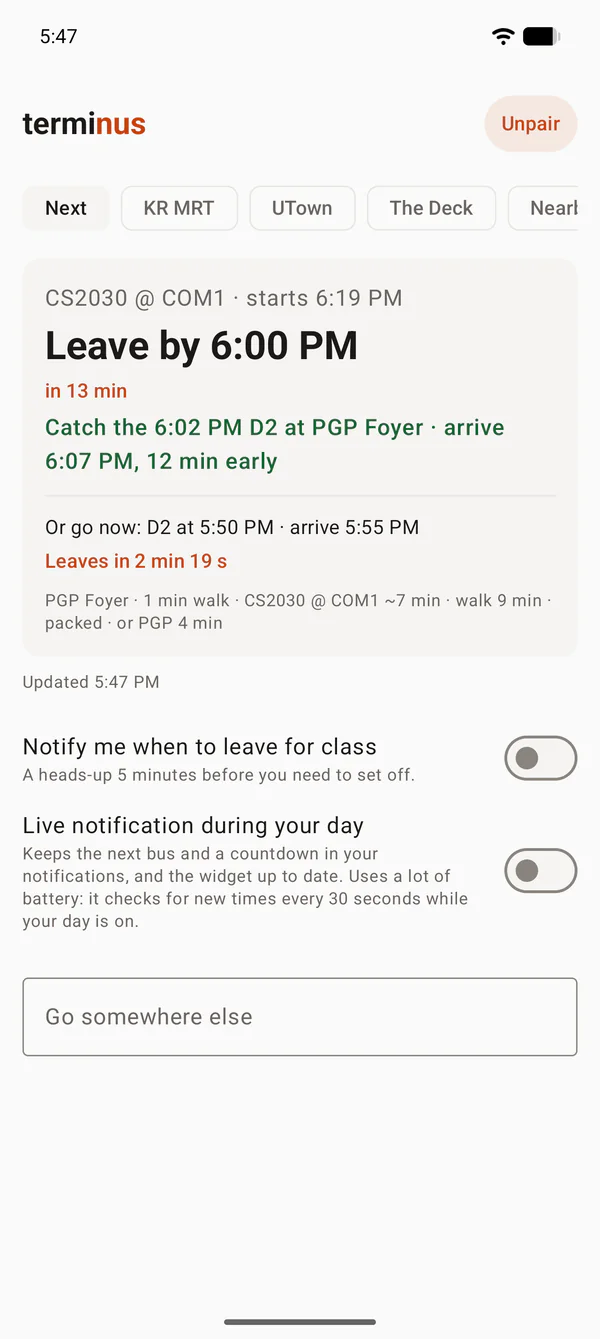
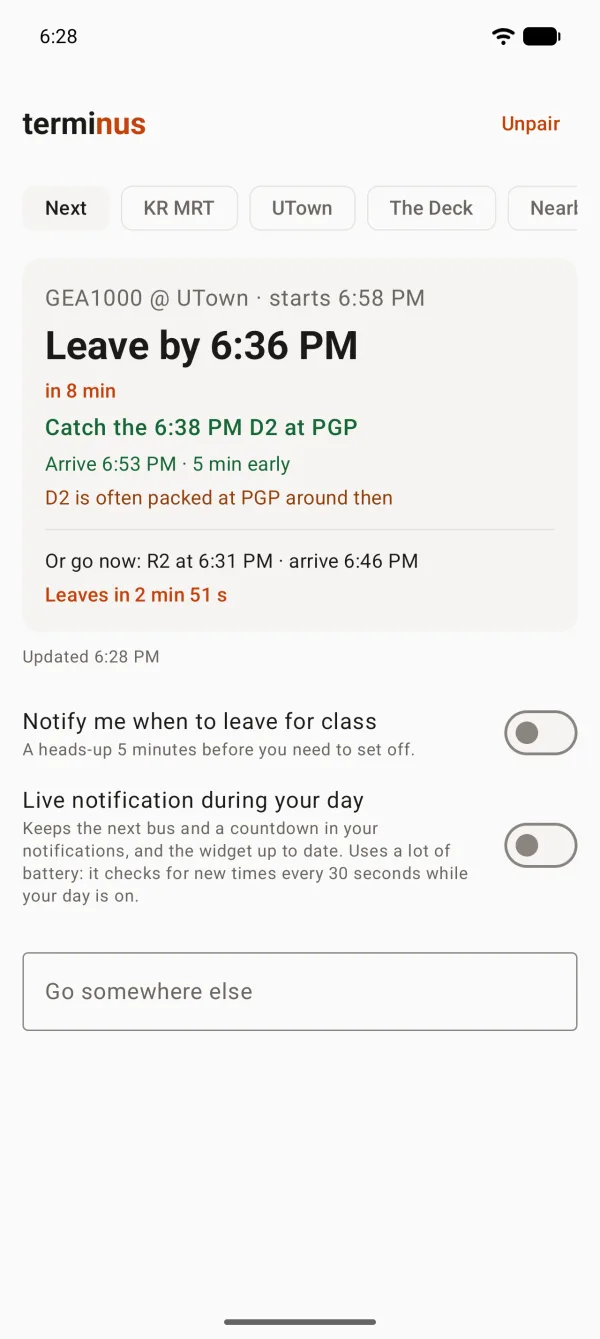
feat: the class card's bus and arrival on separate lines
Class card: the bus to catch and its arrival on separate lines, with a
bus icon on the catch line; no leftover 'Board at' row or general detail
line, which repeated the stop and named a different bus (Mac, Android
app, account page preview); the Mac card fills its fixed height instead
of leaving a gap. Landing page screenshots re-captured to match

diff --git a/apps/web/public/index.html b/apps/web/public/index.html
@@ -155,7 +155,7 @@
     <div class="hero-shot">
       <div class="phone">
         <div class="split" data-split>
-          <img class="half light" src="/assets/shots/app-light.webp" width="600" height="1339" alt="The terminus Android app: CS2030 at COM1 starts 6:19 PM. Leave by 6:00 PM, in 14 minutes, and catch the 6:02 PM D2 at PGP Foyer to arrive 12 minutes early. Or go now on the 5:50 PM D2." fetchpriority="high">
+          <img class="half light" src="/assets/shots/app-light.webp" width="600" height="1339" alt="The terminus Android app: GEA1000 at UTown starts 6:58 PM. Leave by 6:36 PM, in 8 minutes, and catch the 6:38 PM D2 at PGP to arrive at 6:53 PM, 5 minutes early; D2 is often packed at PGP around then. Or go now on the 6:31 PM R2." fetchpriority="high">
           <img class="half dark" src="/assets/shots/app-dark.webp" width="600" height="1339" alt="" aria-hidden="true">
         </div>
       </div>
@@ -171,7 +171,7 @@
         <div class="window-bar" aria-hidden="true"><i></i><i></i><i></i><span>terminus.rcn.sh/account</span></div>
         <picture class="shot">
           <source srcset="/assets/shots/web-dark.webp" media="(prefers-color-scheme: dark)">
-          <img src="/assets/shots/web-light.webp" width="1600" height="975" loading="lazy" alt="The account page: a timetable of three classes, where you live, and a live preview of your widget saying leave by 6:05 PM and walk there.">
+          <img src="/assets/shots/web-light.webp" width="1600" height="975" loading="lazy" alt="The account page: a timetable of three classes, and a live preview of your widget saying leave by 6:33 PM and catch the 6:38 PM D2 at PGP Foyer, arriving 13 minutes early.">
         </picture>
       </div>
       <figcaption><h3>Set up on the web</h3><p>Import your NUSMods timetable, pick where you live and how fast you walk, and see exactly what your widget will say.</p></figcaption>
@@ -187,11 +187,11 @@
       <div class="desk themed">
         <div class="light scene l">
           <div class="menu" aria-hidden="true"><b><svg width="12" height="12" viewBox="0 0 24 24" fill="currentColor"><path d="M6 3h12a3 3 0 0 1 3 3v10a2 2 0 0 1-1 1.73V20a1 1 0 0 1-1 1h-1a1 1 0 0 1-1-1v-1H7v1a1 1 0 0 1-1 1H5a1 1 0 0 1-1-1v-2.27A2 2 0 0 1 3 16V6a3 3 0 0 1 3-3zM5 7v4h14V7H5z"/></svg>Leave 9:41</b><span>Tue 29 Sep 9:24</span></div>
-          <img class="pop" src="/assets/shots/mac-light.webp" width="720" height="769" loading="lazy" alt="The Mac menu bar app: leave by 9:41 for CS2030 at 10:00, catch the 9:45 D2 at PGP.">
+          <img class="pop" src="/assets/shots/mac-light.webp" width="720" height="733" loading="lazy" alt="The Mac menu bar app: leave by 9:41 for CS2030 at 10:00, catch the 9:45 D2 at PGP.">
         </div>
         <div class="dark scene d" aria-hidden="true">
           <div class="menu"><b><svg width="12" height="12" viewBox="0 0 24 24" fill="currentColor"><path d="M6 3h12a3 3 0 0 1 3 3v10a2 2 0 0 1-1 1.73V20a1 1 0 0 1-1 1h-1a1 1 0 0 1-1-1v-1H7v1a1 1 0 0 1-1 1H5a1 1 0 0 1-1-1v-2.27A2 2 0 0 1 3 16V6a3 3 0 0 1 3-3zM5 7v4h14V7H5z"/></svg>Leave 9:41</b><span>Tue 29 Sep 9:24</span></div>
-          <img class="pop" src="/assets/shots/mac-dark.webp" width="720" height="769" loading="lazy" alt="">
+          <img class="pop" src="/assets/shots/mac-dark.webp" width="720" height="733" loading="lazy" alt="">
         </div>
       </div>
       <figcaption><h3>In your menu bar</h3><p>When to leave, one glance up. The rest, a click away.</p></figcaption>

diff --git a/apps/macos/Sources/Terminus/TerminusApp.swift b/apps/macos/Sources/Terminus/TerminusApp.swift
@@ -578,13 +578,15 @@ private struct AnswerDetail: View {
             if let a = answer {
                 if a.isClassPlan {
                     // Each arrival next to the bus it belongs to.
-                    if let c = a.catchLine { Row(icon: "figure.walk", text: c).fontWeight(.semibold).foregroundStyle(a.leaveLate ? Color.red : Color.good) }
+                    // The bus to catch (it names the stop), then when it gets you there.
+                    let tone = a.leaveLate ? Color.red : Color.good
+                    if let c = a.catchHow { Row(icon: a.leave?.svc == nil ? "figure.walk" : "bus.fill", text: c).fontWeight(.semibold).foregroundStyle(tone) }
+                    if let arrive = a.catchArrive { Row(icon: "flag.checkered", text: arrive).foregroundStyle(tone) }
                     if let note = a.leave?.note { Row(icon: "person.3.fill", text: note).foregroundStyle(Color.warn) }
                     if a.leave?.estimated == true {
                         Row(icon: "info.circle", text: "Estimated from the usual gap between buses. Live times show nearer the time.").foregroundStyle(.secondary)
                     }
                     if let g = a.goNowLine { Row(icon: "bus", text: g) }
-                    Row(icon: "text.alignleft", text: a.detail).foregroundStyle(.secondary)
                 } else {
                 Row(icon: a.mode == "rest" ? "calendar" : "text.alignleft", text: a.detail)
                 if let leave = a.leaveText() { Row(icon: "figure.walk", text: leave).fontWeight(.semibold) }
@@ -595,7 +597,6 @@ private struct AnswerDetail: View {
                         if let c = crowdWord(a.crowd) { Pill(text: c, color: .secondary) }
                     }
                 }
-                if let name = a.stop?.name, !name.isEmpty { Row(icon: "mappin.circle", text: "Board at \(name)") }
             } else {
                 HStack(spacing: 8) {
                     ProgressView().controlSize(.small)
@@ -603,6 +604,9 @@ private struct AnswerDetail: View {
                 }
             }
         }
+        // Fill the area's fixed height (120 with the card's padding), so a
+        // short answer centres in the card instead of leaving a gap under it.
+        .frame(maxWidth: .infinity, minHeight: 96, alignment: .leading)
         .card()
     }
 

diff --git a/apps/web/public/account/app.js b/apps/web/public/account/app.js
@@ -180,10 +180,10 @@ function classPlan(a) {
   const late = l.arrive && Date.parse(l.arrive) > classAt;
   const head = Date.now() >= Date.parse(l.at) ? 'Leave now' : `Leave by ${t}${clock(l.at)}`;
   const how = l.svc ? `Catch the ${l.board ? `${t}${clock(l.board)} ` : ''}${l.svc} at ${l.stop}` : 'Walk there';
-  let catchLine = how;
+  let arrive = null;
   if (l.arrive) {
     const m = Math.round((classAt - Date.parse(l.arrive)) / 60_000);
-    catchLine += ` · arrive ${t}${clock(l.arrive)}, ${m > 0 ? `${m} min early` : m === 0 ? 'just in time' : `~${-m} min late`}`;
+    arrive = `Arrive ${t}${clock(l.arrive)} · ${m > 0 ? `${m} min early` : m === 0 ? 'just in time' : `~${-m} min late`}`;
   }
   const svc = a.label.split(' · ')[0];
   const timed = a.departsAt && a.quality !== 'unknown' && a.quality !== 'ended';
@@ -194,11 +194,12 @@ function classPlan(a) {
   return [
     el('div', { class: 'where', textContent: `${a.dest.label} · starts ${clock(a.timing.classAt)}` }),
     el('div', { class: `big${late ? ' late' : ''}`, textContent: head }),
-    el('div', { class: `catch${late ? ' late' : ''}`, textContent: catchLine }),
+    // The bus to catch names the stop, so there's no general detail line below.
+    el('div', { class: `catch${late ? ' late' : ''}`, textContent: how }),
+    arrive ? el('div', { class: `arrive${late ? ' late' : ''}`, textContent: arrive }) : null,
     l.note ? el('div', { class: 'crowd-note', textContent: l.note }) : null,
     l.estimated ? el('div', { class: 'note', textContent: 'Estimated from the usual gap between buses. Live times show nearer the time.' }) : null,
     goNow ? el('div', { class: 'go-now', textContent: goNow }) : null,
-    el('div', { class: 'note', textContent: a.detail }),
   ].filter(Boolean);
 }
 

diff --git a/apps/android/app/src/main/java/sh/rcn/terminus/ui/MainActivity.kt b/apps/android/app/src/main/java/sh/rcn/terminus/ui/MainActivity.kt
@@ -454,9 +454,11 @@ private fun ClassPlan(answer: NextAnswer) {
             color = MaterialTheme.colorScheme.primary,
         )
     }
-    answer.catchLine(fmt)?.let {
-        Text(it, style = MaterialTheme.typography.bodyLarge, fontWeight = FontWeight.Medium, color = if (late) MaterialTheme.colorScheme.error else goodColor())
-    }
+    // The bus to catch, and underneath when it gets you there. The stop is
+    // named here, so no separate "board at" or general detail line below.
+    val tone = if (late) MaterialTheme.colorScheme.error else goodColor()
+    answer.catchHow(fmt)?.let { Text(it, style = MaterialTheme.typography.bodyLarge, fontWeight = FontWeight.Medium, color = tone) }
+    answer.catchArrive(fmt)?.let { Text(it, style = MaterialTheme.typography.bodyMedium, color = tone) }
     answer.leaveNote?.let { Text(it, style = MaterialTheme.typography.bodyMedium, color = MaterialTheme.colorScheme.tertiary) }
     if (answer.leaveEstimated) {
         Text("Estimated from the usual gap between buses. Live times show nearer the time.", style = MaterialTheme.typography.bodySmall, color = muted)
@@ -466,8 +468,7 @@ private fun ClassPlan(answer: NextAnswer) {
         Text(it, style = MaterialTheme.typography.bodyMedium)
         Countdown(answer)
     }
-    Text(answer.detail, style = MaterialTheme.typography.bodySmall, color = muted, modifier = Modifier.padding(top = 6.dp))
-    qualityNote(answer.quality)?.let { Text(it, style = MaterialTheme.typography.bodySmall, color = muted) }
+    qualityNote(answer.quality)?.let { Text(it, style = MaterialTheme.typography.bodySmall, color = muted, modifier = Modifier.padding(top = 6.dp)) }
 }
 
 @Composable

diff --git a/apps/macos/Sources/Terminus/Api.swift b/apps/macos/Sources/Terminus/Api.swift
@@ -76,21 +76,21 @@ struct NextAnswer: Decodable {
         return now >= at ? "Leave now" : "Leave by \(tilde)\(campusTime(at))"
     }
 
-    /// "Catch the ~09:41 D2 at PGP · arrive ~09:55, 3 min early", or on foot.
-    var catchLine: String? {
+    /// "Catch the ~09:41 D2 at PGP", or "Walk there".
+    var catchHow: String? {
         guard let l = leave else { return nil }
-        let how: String
-        if let svc = l.svc {
-            how = l.board.flatMap(parseISODate).map { "Catch the \(tilde)\(campusTime($0)) \(svc) at \(l.stop ?? "")" } ?? "Catch the \(svc) at \(l.stop ?? "")"
-        } else {
-            how = "Walk there"
-        }
-        guard let arrive = l.arrive.flatMap(parseISODate) else { return how }
+        guard let svc = l.svc else { return "Walk there" }
+        return l.board.flatMap(parseISODate).map { "Catch the \(tilde)\(campusTime($0)) \(svc) at \(l.stop ?? "")" } ?? "Catch the \(svc) at \(l.stop ?? "")"
+    }
+
+    /// "Arrive ~09:55 · 3 min early". Same wording as the Android app.
+    var catchArrive: String? {
+        guard let arrive = leave?.arrive.flatMap(parseISODate) else { return nil }
         let slack = classAt.map { c -> String in
             let m = Int((c.timeIntervalSince(arrive) / 60).rounded())
-            return m > 0 ? ", \(m) min early" : m == 0 ? ", just in time" : ", ~\(-m) min late"
+            return m > 0 ? " · \(m) min early" : m == 0 ? " · just in time" : " · ~\(-m) min late"
         } ?? ""
-        return "\(how) · arrive \(tilde)\(campusTime(arrive))\(slack)"
+        return "Arrive \(tilde)\(campusTime(arrive))\(slack)"
     }
 
     var leaveLate: Bool {

diff --git a/apps/android/app/src/main/java/sh/rcn/terminus/Api.kt b/apps/android/app/src/main/java/sh/rcn/terminus/Api.kt
@@ -66,14 +66,25 @@ data class NextAnswer(
         return if (now >= at) "Leave now" else "Leave by $tilde${format(at)}"
     }
 
-    /** "Catch the ~09:41 D2 at PGP · arrive ~09:55, 3 min early", or on foot. */
-    fun catchLine(format: (Long) -> String): String? {
+    /** "Catch the ~09:41 D2 at PGP", or "Walk there". */
+    fun catchHow(format: (Long) -> String): String? {
         leaveAtMs ?: return null
-        val how = when {
+        return when {
             leaveSvc == null -> "Walk there"
             leaveBoardMs != null -> "Catch the $tilde${format(leaveBoardMs)} $leaveSvc at $leaveStop"
             else -> "Catch the $leaveSvc at $leaveStop"
         }
+    }
+
+    /** "Arrive ~09:55 · 3 min early". */
+    fun catchArrive(format: (Long) -> String): String? {
+        val arrive = leaveArriveMs ?: return null
+        return "Arrive $tilde${format(arrive)}${classAtMs?.let { " · ${slack(arrive, it)}" }.orEmpty()}"
+    }
+
+    /** Both on one line, where there's room for only one: the widget and notifications. */
+    fun catchLine(format: (Long) -> String): String? {
+        val how = catchHow(format) ?: return null
         val arrive = leaveArriveMs ?: return how
         return "$how · arrive $tilde${format(arrive)}${classAtMs?.let { ", ${slack(arrive, it)}" }.orEmpty()}"
     }

diff --git a/apps/web/public/account/account.css b/apps/web/public/account/account.css
@@ -42,7 +42,8 @@ label[for="home-walk"] { margin-top: 14px; }
 
 /* Preview: when to set off. A class leads with it; the next bus sits below a rule. */
 .widget .catch { margin-top: 6px; font-weight: 600; color: var(--good-ink); }
-.widget .catch.late, .widget .big.late { color: var(--bad-ink); }
+.widget .arrive { color: var(--good-ink); font-size: 0.9rem; }
+.widget .catch.late, .widget .arrive.late, .widget .big.late { color: var(--bad-ink); }
 .widget .crowd-note { margin-top: 6px; font-size: 0.85rem; color: var(--warn-ink); }
 .widget .go-now { margin-top: 10px; padding-top: 10px; border-top: 1px solid var(--line); }
 .widget .leave { margin-top: 8px; font-weight: 600; font-variant-numeric: tabular-nums; color: var(--ink); }
